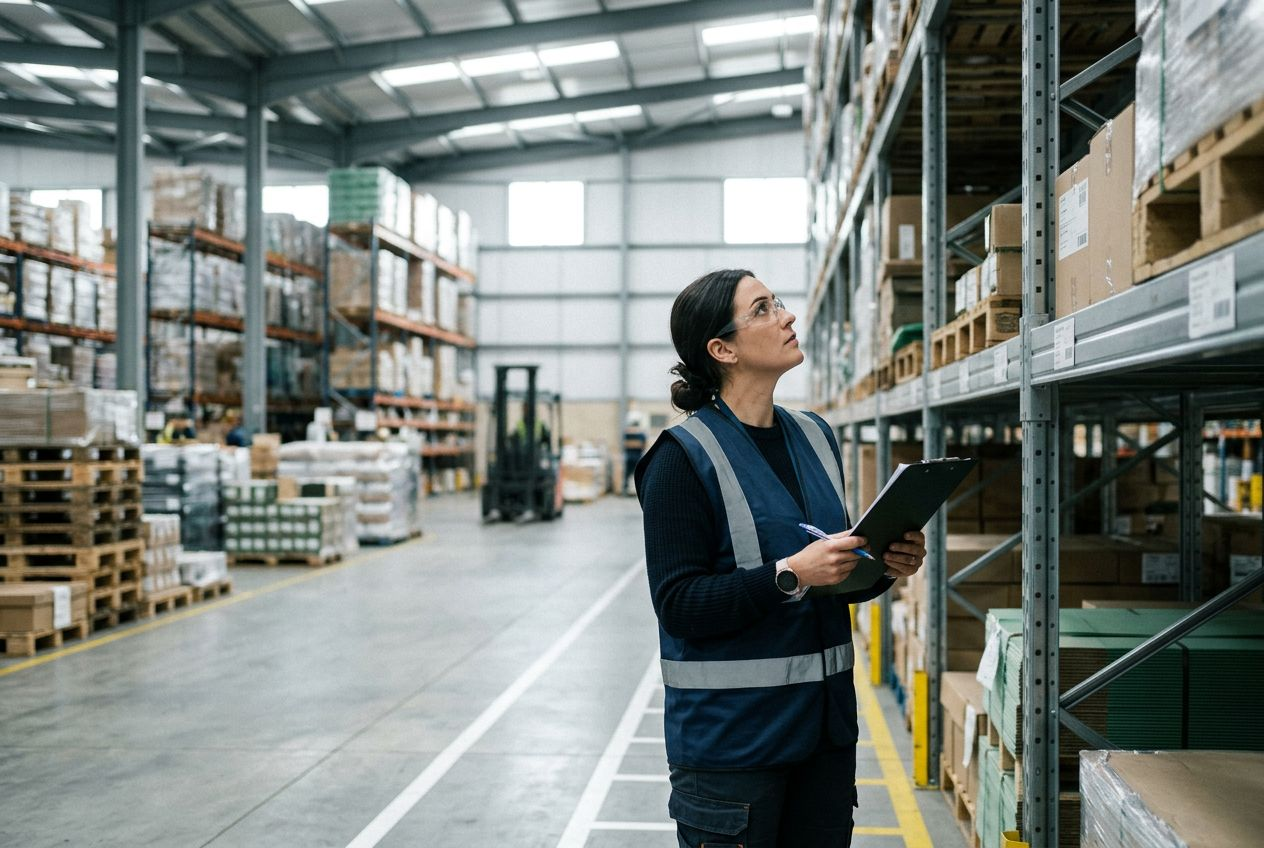
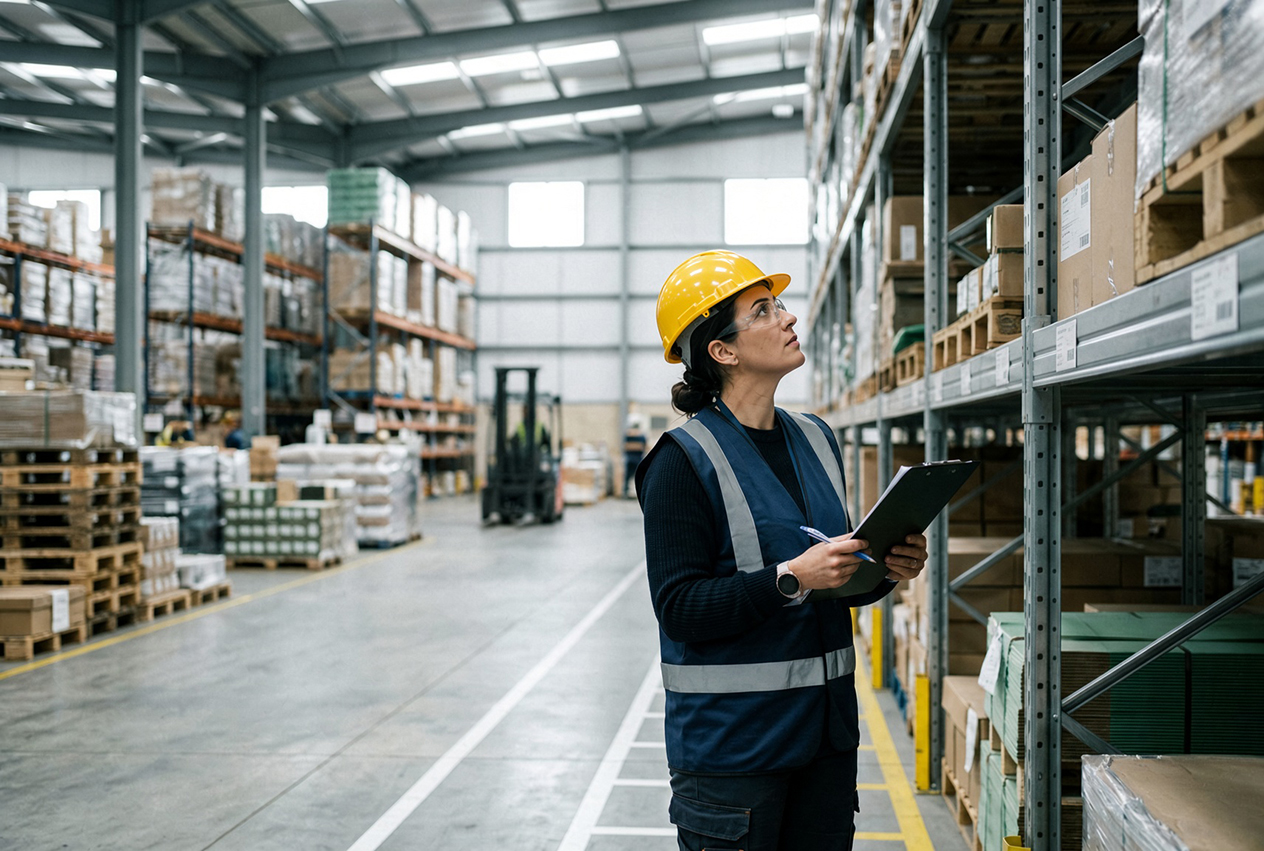
upd foto

diff --git a/src/config/site.ts b/src/config/site.ts
@@ -1,4 +1,7 @@
 // Dane firmy i kontaktowe w jednym miejscu.
+
+import { truncate } from "node:fs";
+
 // Po zalozeniu sp. z o.o. zmieniamy tylko ten plik (stopka, polityka prywatnosci, formularz).
 export const site = {
   brand: 'Safety First',
@@ -44,7 +47,7 @@ export const site = {
   gaId: 'G-XDCZRXJ50V',
   // Asystent AI na stronie (okienko czatu). Wlaczyc (true) po ustawieniu sekretu ANTHROPIC_API_KEY w Workerze.
   // Podglad na zywo przed wlaczeniem: dopisz ?asystent=1 do adresu strony.
-  chat: { enabled: false },
+  chat: { enabled: true },
   region: 'województwo opolskie',
   maxEmployees: 50,
 } as const
